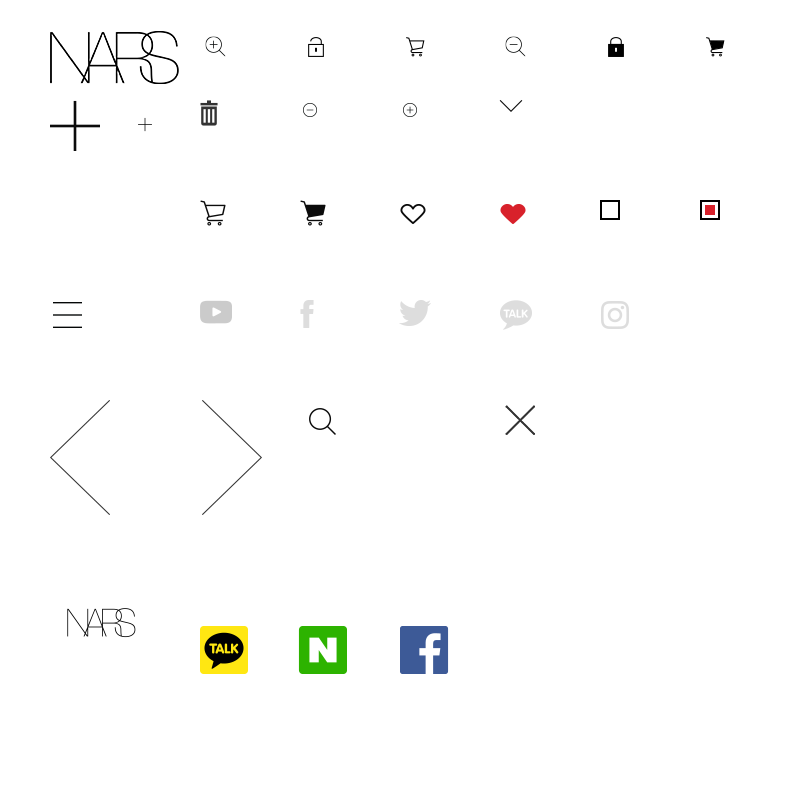
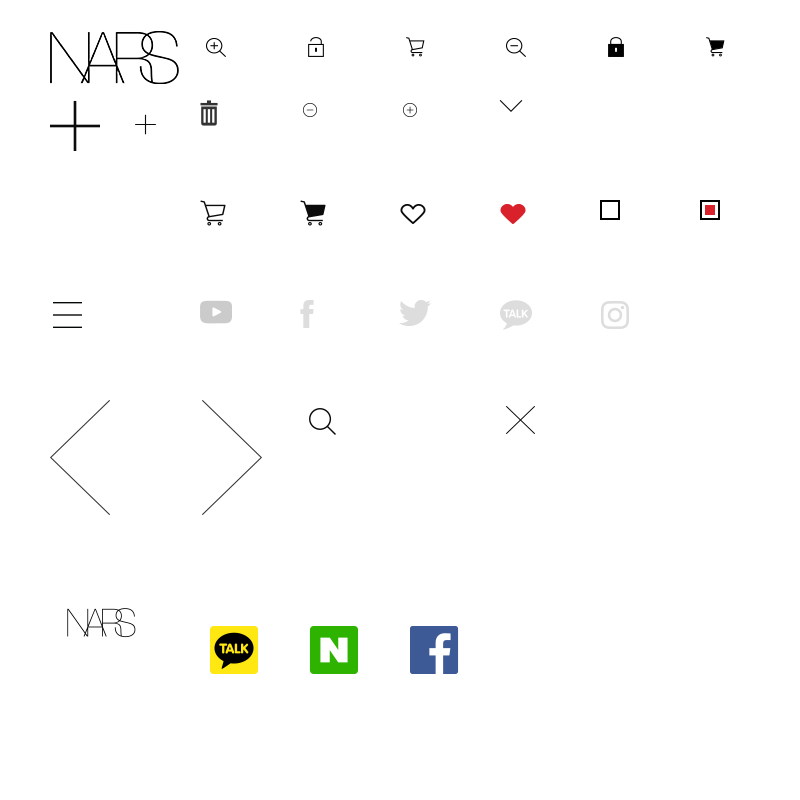
2

diff --git a/nars/css/style.css b/nars/css/style.css
@@ -63,9 +63,9 @@ option{padding:30px; font-size:18px; }
 .icon-instar{width:50px; height:40px;background-position:-600px -300px;}
 .icon-search-W{width:50px; height:50px;background-position:-300px -400px;}
 .icon-del{width:40px; height:40px; background-position:-500px -400px;}
-.icon-kakao-C{width:100px; height:100px; background-position:-200px -600px;}
-.icon-naver-C{width:100px; height:100px; background-position:-300px -600px;}
-.icon-facebook-C{width:100px; height:100px; background-position:-400px -600px;}
+.icon-kakao-C{width:70px; height:100px; background-position:-200px -600px;}
+.icon-naver-C{width:70px; height:100px; background-position:-300px -600px;}
+.icon-facebook-C{width:70px; height:100px; background-position:-400px -600px;}
 .icon-minus{width:20px; height:20px; background-position:-300px -100px;}
 .icon-plus{width:20px; height:20px; background-position:-400px -100px;}
 .icon-transh{width:40px; height:40px; background-position:-200px -100px;}
@@ -76,6 +76,7 @@ option{padding:30px; font-size:18px; }
 .icon-arrow-up{width:40px; height:20px; background-position:-600px -100px; }
 .wrap{position: relative;}
 .active{display:block;}
+.nav-active{color:#dddddd; background:#8b1a1e; }
 /* header ========================================================= */
 header {width:100%; height: 150px; position:fixed; z-index:30;
         border-bottom: 1px solid #0a0a0a; background-color: #ffffff;}
@@ -91,7 +92,7 @@ nav .top-area {display: none;}
 /* 1depth메뉴 */
 .gnb{overflow: hidden; }
 .gnb>li{float:left;}
-.gnb>li>a {line-height: 50px; padding:0px 20px; box-sizing: border-box;
+.gnb>li>a {line-height: 50px; padding:0px 10px 0px 20px; box-sizing: border-box;
             font-size: 20px; color: #0a0a0a; text-align: left; background-color: #ffffff;}
 /* 2depth메뉴 */
 .gnb>li ul{background:#0a0a0a;  position: absolute; left:0; width:100%;
@@ -405,7 +406,7 @@ footer .policy a{color:#ddd; padding:0 20px 0 0;}
 .popup-body .find-info a{font-size:18px; padding: 0 40px 0 0px;}
 .popup-body .sns{border-top: 2px solid #ddd; border-bottom: 2px solid #ddd;}
 .popup-body .sns h3{font-weight: lighter;}
-.popup-body .sns .row{width:320px; margin: 0 auto;}
+.popup-body .sns .row{text-align: center;}
 /* .popup-body .sns .row a{width: 100px; height: 100px;}
 .popup-body .sns .row a:nth-of-type(1){margin-left: auto;} */
 .popup-body .new p{font-size: 18px; margin-bottom: 30px;}
@@ -469,7 +470,7 @@ footer .policy a{color:#ddd; padding:0 20px 0 0;}
   .gnb i{display: block;float: right; transform: translateY(90%);}
   .gnb li>ul>li:last-child{border-bottom: none;}
   /* 2depth메뉴 */
-  .gnb li>ul{background: #ffffff; border-top:2px solid #0a0a0a; border-bottom:2px solid #0a0a0a; position: relative;}
+  .gnb li>ul{background: #ffffff; border-top:1px solid #0a0a0a; position: relative;}
   .gnb li>ul>li{font-size: 20px; clear: both;  text-align: left;
                 border-bottom: 2px solid #ddd; width:100%;
                 margin-left:80px;}

diff --git a/nars/js/main.js b/nars/js/main.js
@@ -15,9 +15,11 @@ $(function(){
         }
       });
     }else{
-      $('.gnb > li > a').click(function(){
-        $(this).find('i').toggleClass('icon-arrow-down icon-arrow-up');
-        $(this).next('.subnav').stop().slideToggle();
+      $('.gnb > li > a').on({
+        click:function(){
+          $(this).find('i').toggleClass('icon-arrow-down icon-arrow-up');
+          $(this).next('.subnav').stop().slideToggle();
+        }       
       })
     }
   }).resize();
@@ -25,14 +27,14 @@ $(function(){
   $('.icon-bar').on({
     click:function(){
       $('nav.center').show();
-      $('nav.center').stop().animate({'left':'0'},1000);
+      $('nav.center').stop().animate({'left':'0'},800);
       $('.search').hide();
     }
   });
   $('.top-area button').on({
     click:function(){
       $('nav.center').fadeOut();
-      $('nav.center').stop().animate({'left':'-100%'},1000);
+      $('nav.center').stop().animate({'left':'-100%'},800);
     }
   });
   // 검색창
